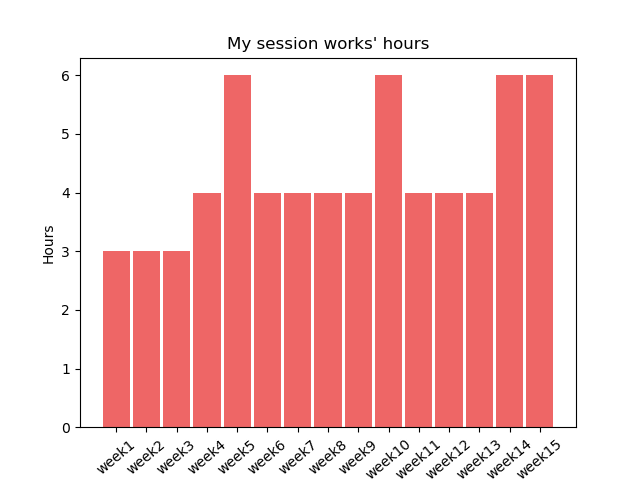
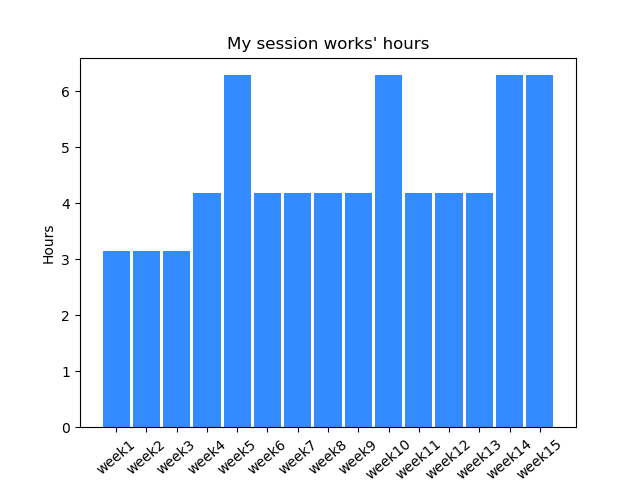
Correction du code d'interface  et calcul de la cote

diff --git a/Graph.py b/Graph.py
@@ -24,7 +24,7 @@ PARSER.add_argument(
 
 ARGS = PARSER.parse_args()
 sheetName = ARGS.name
-print(sheetName)
+cote = 0
 
 
 if ARGS.name is not None:
@@ -42,6 +42,9 @@ if ARGS.name is not None:
             Y += [(feuille_1.cell_value(rowx=r, colx=1) * feuille_1.cell_value(rowx=r, colx=3)) / 100]  # Best marks I want
             Y2 += [(feuille_1.cell_value(rowx=r, colx=2) * feuille_1.cell_value(rowx=r, colx=3)) / 100]  # Marks that I got
 
+        for e in Y2:
+            cote += e
+        print(cote)
         plt.plot(X, Y, "o-", label="Marks I want")
         plt.plot(X, Y2, "o-", label="Actual marks")
         plt.title("My session's marks")
@@ -55,12 +58,18 @@ if ARGS.name is not None:
         x = np.array([1, 2, 3, 4, 5, 6, 7, 8, 9, 10, 11, 12, 13, 14, 15])
         y = np.array([3, 3, 3, 4, 6, 4, 4, 4, 4, 6, 4, 4, 4, 6, 6])
 
+        for r in range(1, rows):
+            X += [r]
+            Y += [(feuille_1.cell_value(rowx=r, colx=1) * feuille_1.cell_value(rowx=r, colx=3)) / 100] #Best marks I want
+            Y2 += [
+                (feuille_1.cell_value(rowx=r, colx=2) * feuille_1.cell_value(rowx=r, colx=3)) / 100]  # Marks that I got
         # Calcul of difficulty degree
         difficulty = 0
         for i in range(len(Y)):
             difficulty += Y[i] - Y2[i]
         difficulty = (difficulty / (rows - 1))
         # creation of the new graph depends on the difficulties
+        print(Y)
         print(difficulty)
         y2 = []
         for i in range(0, len(y)):
@@ -71,7 +80,7 @@ if ARGS.name is not None:
                    'week10', 'week11', 'week12', 'week13', 'week14', 'week15']
 
         fig = plt.figure()
-        plt.bar(x, y2, width, color='#EE6666')
+        plt.bar(x, y2, width, color='#338BFF')
         plt.title("My session works' hours")
         plt.xlabel("Week")
         plt.ylabel("Hours")

diff --git a/SessionOrganization/src/graphicInterface/MyUsersInterface.java b/SessionOrganization/src/graphicInterface/MyUsersInterface.java
@@ -60,6 +60,8 @@ public class MyUsersInterface {
 		lblNewLabel.setBounds(341, 10, 641, 470);
 		frame.getContentPane().add(lblNewLabel);
 
+		JLabel lblA = new JLabel("A+");
+		lblA.setBackground(Color.GREEN);
 
 		JButton btnAddACourse = new JButton("Add a course"); // toujours en derniere position Boutton pour ajouter un cour
 		btnAddACourse.addActionListener(new ActionListener() {
@@ -83,6 +85,7 @@ public class MyUsersInterface {
 				lblNewLabel.setEnabled(true);
 				btnNewButton.setText(CourseName.courseName);
 				btnNewButton.setEnabled(true);
+				//lblA.setText();
 			}
 		});
 		frame.getContentPane().add(btnAddACourse);
@@ -91,8 +94,6 @@ public class MyUsersInterface {
 		lblNewLabel_1.setBounds(341, 503, 39, 22);
 		frame.getContentPane().add(lblNewLabel_1);
 		
-		JLabel lblA = new JLabel("A+");
-		lblA.setBackground(Color.GREEN);
 		lblA.setBounds(390, 506, 24, 17);
 		frame.getContentPane().add(lblA);
 		
